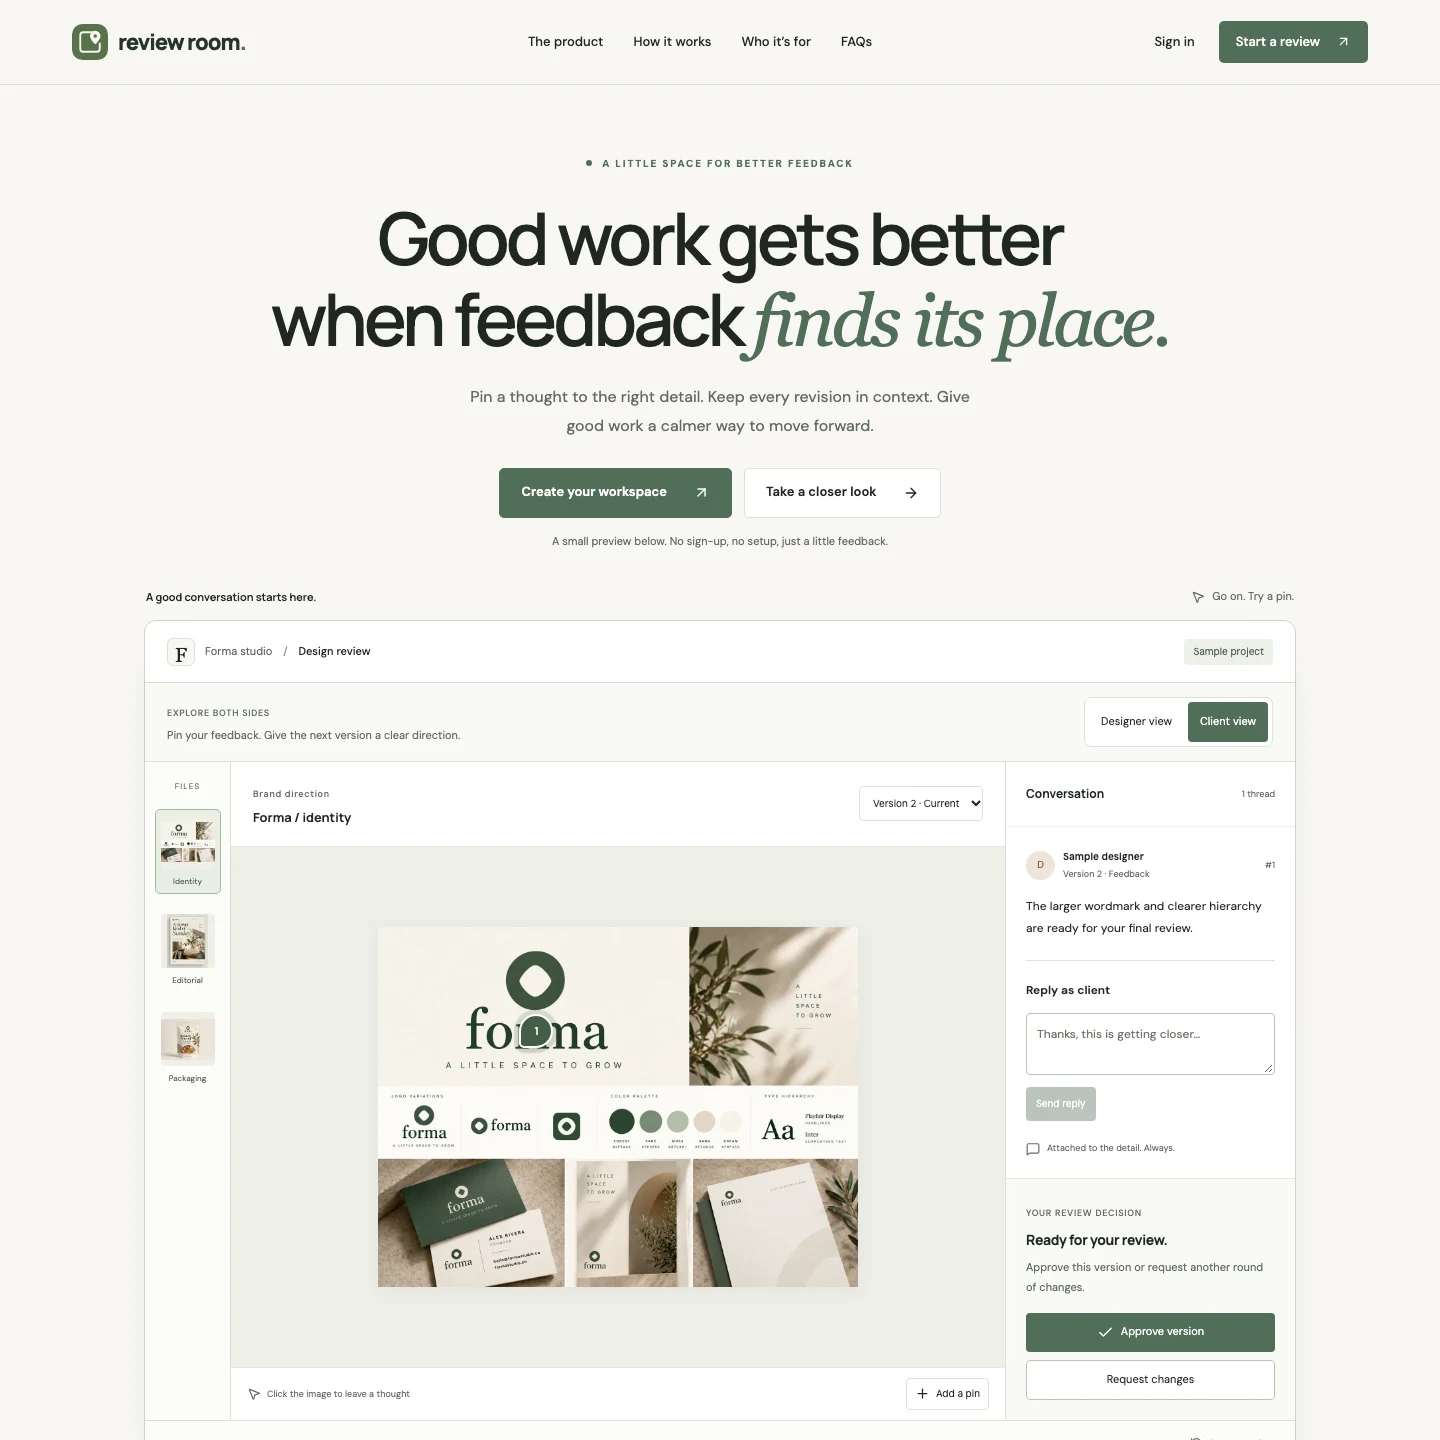
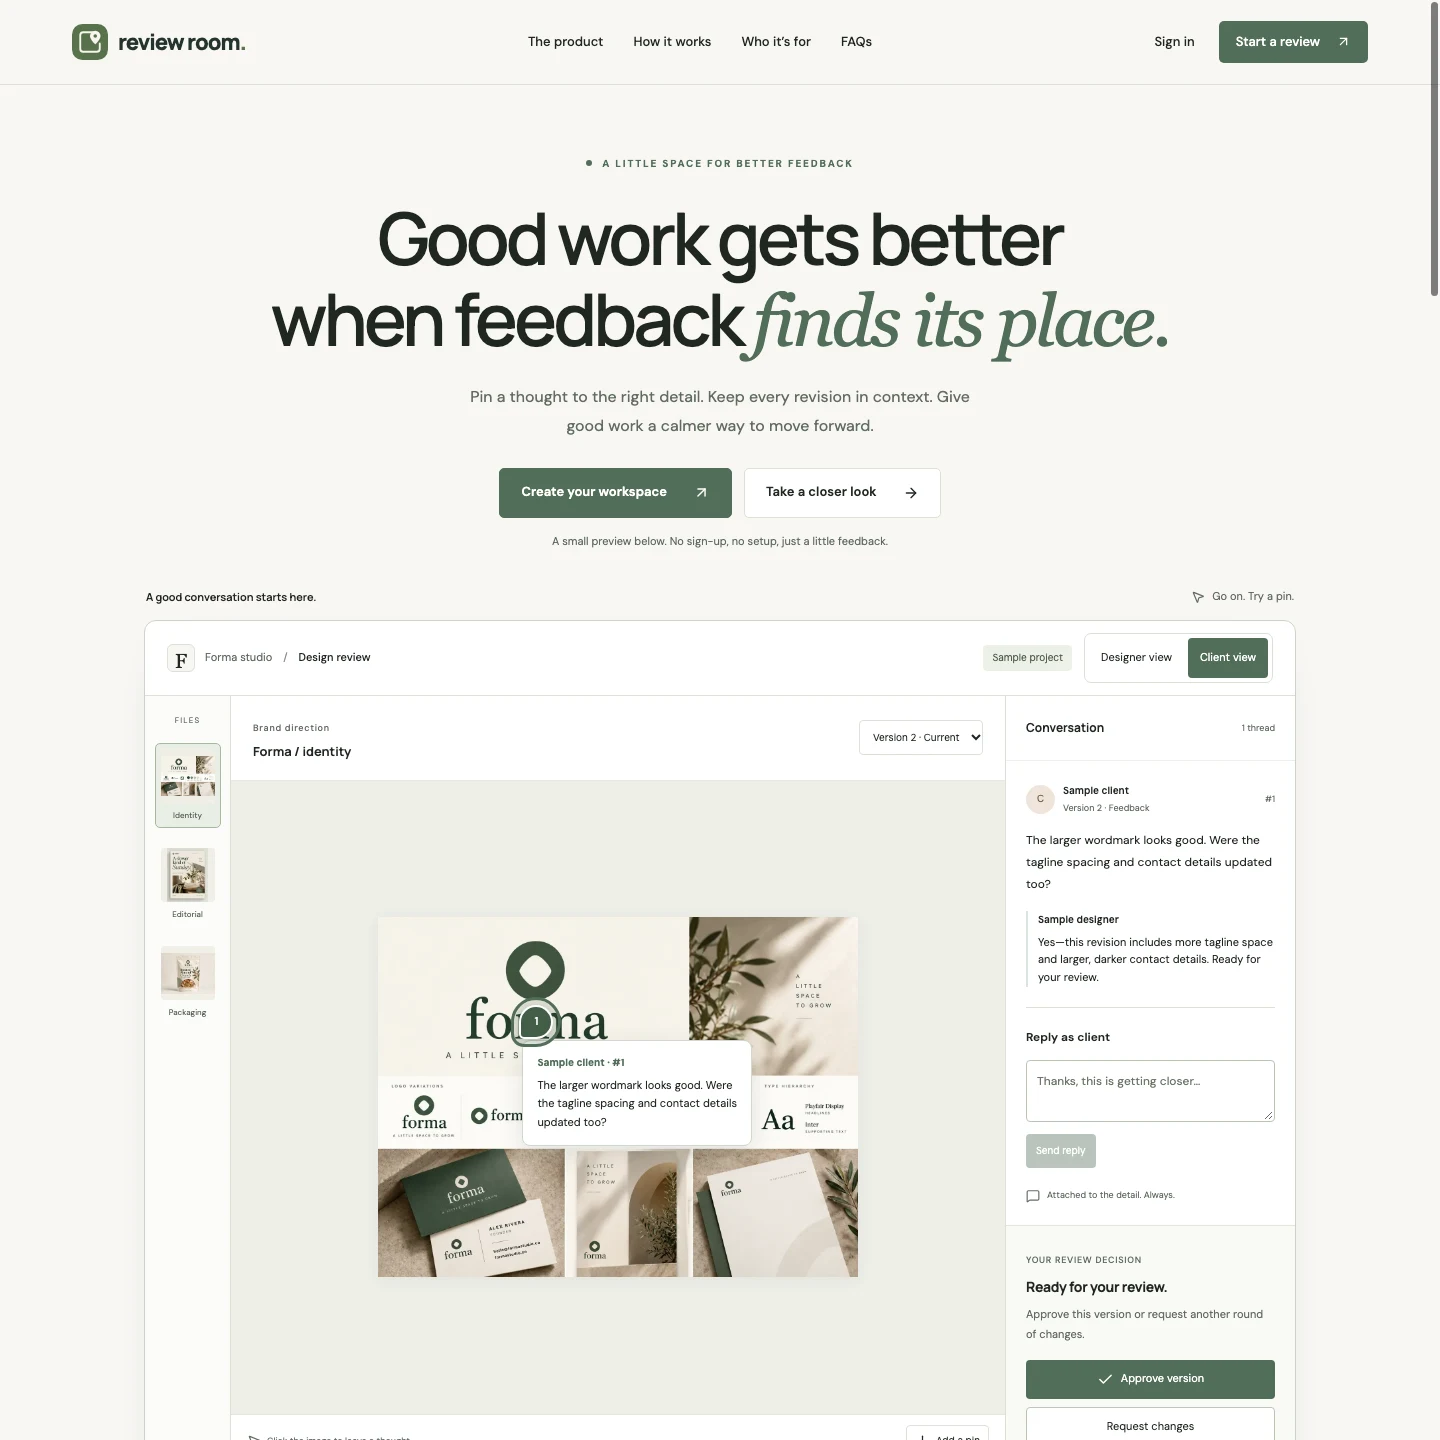
feat: refine preview toolbar and add comment pin tooltips

diff --git a/src/features/marketing/review-showcase.tsx b/src/features/marketing/review-showcase.tsx
@@ -31,6 +31,7 @@ export function ReviewShowcase({ seed }: { seed: DemoState }) {
   );
   const [body, setBody] = useState("");
   const [replyBody, setReplyBody] = useState("");
+  const [tooltipId, setTooltipId] = useState<string | null>(null);
   const [announcement, setAnnouncement] = useState("");
   const input = useRef<HTMLTextAreaElement>(null);
   const conversation = useRef<HTMLDivElement>(null);
@@ -110,32 +111,24 @@ export function ReviewShowcase({ seed }: { seed: DemoState }) {
             <strong>Design review</strong>
           </span>
         </span>
-        <span className={styles.sampleLabel}>Sample project</span>
-      </div>
-      <div className={styles.previewRoleBar}>
-        <div>
-          <span className={styles.fileType}>EXPLORE BOTH SIDES</span>
-          <p>
-            {designer
-              ? "Review the conversation. Reply and resolve the details."
-              : "Pin your feedback. Give the next version a clear direction."}
-          </p>
-        </div>
-        <div
-          className={styles.previewViewToggle}
-          role="group"
-          aria-label="Sample project view"
-        >
-          {(["DESIGNER", "CLIENT"] as const).map((view) => (
-            <button
-              key={view}
-              type="button"
-              aria-pressed={state.view === view}
-              onClick={() => switchView(view)}
-            >
-              {view === "DESIGNER" ? "Designer view" : "Client view"}
-            </button>
-          ))}
+        <div className={styles.previewToolbarActions}>
+          <span className={styles.sampleLabel}>Sample project</span>
+          <div
+            className={styles.previewViewToggle}
+            role="group"
+            aria-label="Sample project view"
+          >
+            {(["DESIGNER", "CLIENT"] as const).map((view) => (
+              <button
+                key={view}
+                type="button"
+                aria-pressed={state.view === view}
+                onClick={() => switchView(view)}
+              >
+                {view === "DESIGNER" ? "Designer view" : "Client view"}
+              </button>
+            ))}
+          </div>
         </div>
       </div>
       <div className={styles.showcaseBody}>
@@ -217,24 +210,72 @@ export function ReviewShowcase({ seed }: { seed: DemoState }) {
                 onClick={addPin}
               />
               {roots.map((root) => (
-                <button
+                <span
                   key={root.id}
-                  className={`${styles.pin} ${root.id === state.selectedId ? styles.selectedPin : ""}`}
+                  className={styles.pinAnchor}
                   style={{
                     left: `${root.xRatio! * 100}%`,
                     top: `${root.yRatio! * 100}%`,
+                    zIndex: tooltipId === root.id ? 4 : 2,
                   }}
-                  aria-label={`Open comment ${root.threadNumber}: ${root.body}`}
-                  aria-pressed={root.id === state.selectedId}
-                  aria-controls="preview-conversation"
-                  onClick={() => {
-                    dispatch({ type: "select", id: root.id });
-                    setReplyBody("");
-                    setAnnouncement(`Comment ${root.threadNumber} selected.`);
+                  onPointerEnter={(event) => {
+                    if (event.pointerType !== "touch") setTooltipId(root.id);
+                  }}
+                  onPointerLeave={(event) => {
+                    if (!event.currentTarget.contains(document.activeElement))
+                      setTooltipId(null);
+                  }}
+                  onFocus={() => setTooltipId(root.id)}
+                  onBlur={() => setTooltipId(null)}
+                  onKeyDown={(event) => {
+                    if (event.key === "Escape") setTooltipId(null);
                   }}
                 >
-                  {root.threadNumber}
-                </button>
+                  <button
+                    className={`${styles.pin} ${root.id === state.selectedId ? styles.selectedPin : ""}`}
+                    aria-label={`Open comment ${root.threadNumber}: ${root.body}`}
+                    aria-pressed={root.id === state.selectedId}
+                    aria-controls="preview-conversation"
+                    aria-describedby={
+                      tooltipId === root.id
+                        ? `preview-tooltip-${root.id}`
+                        : undefined
+                    }
+                    onClick={() => {
+                      dispatch({ type: "select", id: root.id });
+                      setReplyBody("");
+                      setAnnouncement(`Comment ${root.threadNumber} selected.`);
+                    }}
+                  >
+                    {root.threadNumber}
+                  </button>
+                  {tooltipId === root.id && (
+                    <span
+                      id={`preview-tooltip-${root.id}`}
+                      role="tooltip"
+                      className={styles.pinTooltip}
+                      style={{
+                        left:
+                          root.xRatio! < 0.35
+                            ? "-14px"
+                            : root.xRatio! > 0.65
+                              ? "auto"
+                              : "50%",
+                        right: root.xRatio! > 0.65 ? "-14px" : "auto",
+                        transform:
+                          root.xRatio! >= 0.35 && root.xRatio! <= 0.65
+                            ? "translateX(-50%)"
+                            : undefined,
+                      }}
+                    >
+                      <strong>
+                        Sample {root.author.toLowerCase()} · #
+                        {root.threadNumber}
+                      </strong>
+                      <span>{root.body}</span>
+                    </span>
+                  )}
+                </span>
               ))}
               {state.draft && (
                 <span

diff --git a/src/features/marketing/marketing.module.css b/src/features/marketing/marketing.module.css
@@ -1766,19 +1766,11 @@
   }
 }
 
-.previewRoleBar {
+.previewToolbarActions {
   display: flex;
   align-items: center;
-  justify-content: space-between;
-  gap: 16px;
-  padding: 14px 22px;
-  background: #f9faf6;
-  border-bottom: 1px solid var(--border);
-}
-.previewRoleBar p {
-  font-size: 11px;
-  color: var(--quiet);
-  margin-top: 4px;
+  gap: 12px;
+  flex-shrink: 0;
 }
 .previewViewToggle {
   display: flex;
@@ -1819,15 +1811,69 @@
   color: var(--text);
   background: white;
 }
-@media (max-width: 600px) {
-  .previewRoleBar {
-    align-items: stretch;
-    flex-direction: column;
-    padding: 14px;
-    gap: 12px;
+
+.pinAnchor {
+  position: absolute;
+  width: 0;
+  height: 0;
+}
+.pinAnchor > .pin {
+  left: 0;
+  top: 0;
+}
+.pinTooltip {
+  position: absolute;
+  top: 18px;
+  width: min(230px, 68vw);
+  padding: 13px 14px;
+  border: 1px solid #d0d8ca;
+  border-radius: 8px;
+  background: white;
+  color: var(--text);
+  box-shadow: 0 8px 24px #263b3220;
+  font-size: 11px;
+  line-height: 1.7;
+  overflow-wrap: anywhere;
+}
+.pinTooltip::before {
+  content: "";
+  position: absolute;
+  inset: -12px 0 auto;
+  height: 12px;
+}
+.pinTooltip strong {
+  display: block;
+  font-size: 10px;
+  margin-bottom: 5px;
+  color: var(--green);
+}
+.pinTooltip > span {
+  display: block;
+}
+@media (max-width: 900px) {
+  .previewToolbarActions {
+    gap: 7px;
   }
   .previewViewToggle button {
+    padding-inline: 8px;
+  }
+}
+@media (max-width: 600px) {
+  .showcaseToolbar {
+    flex-wrap: wrap;
+    gap: 8px;
+  }
+  .previewToolbarActions {
     flex: 1;
+    justify-content: flex-end;
+  }
+  .previewViewToggle {
+    gap: 2px;
+    padding: 3px;
+  }
+  .previewViewToggle button {
     min-height: 44px;
+    font-size: 10px;
+    padding-inline: 7px;
   }
 }

diff --git a/src/features/demo/state.ts b/src/features/demo/state.ts
@@ -73,8 +73,8 @@ export function seededDemo(): DemoState {
         threadNumber: 1,
         xRatio: 0.33,
         yRatio: 0.29,
-        body: "The larger wordmark and clearer hierarchy are ready for your final review.",
-        author: "DESIGNER",
+        body: "The larger wordmark looks good. Were the tagline spacing and contact details updated too?",
+        author: "CLIENT",
         resolved: false,
         createdAt,
       },
@@ -193,6 +193,19 @@ export function seededDemo(): DemoState {
         body: "Make the product benefits and net weight darker, and align the information along the bottom.",
         author: "CLIENT",
         resolved: true,
+        createdAt,
+      },
+      {
+        id: "90000000-0000-4000-8000-000000000013",
+        assetId: "identity",
+        version: 2,
+        parentId: "90000000-0000-4000-8000-000000000003",
+        threadNumber: null,
+        xRatio: null,
+        yRatio: null,
+        body: "Yes—this revision includes more tagline space and larger, darker contact details. Ready for your review.",
+        author: "DESIGNER",
+        resolved: false,
         createdAt,
       },
     ],

diff --git a/docs/PROGRESS.md b/docs/PROGRESS.md
@@ -309,3 +309,9 @@ Mark a step complete only after its roadmap acceptance checks pass, recording us
 
 - Added an accessible Designer view / Client view switch within the homepage sample project, with role-specific guidance. Both views can pin feedback and reply on the current version; the designer can resolve/reopen threads, while the client can approve or request changes. Designer view shows the client decision and offers a handoff button. All state remains inside the existing browser-only reducer; no API, customer data or authentication behavior changed. Historical versions remain read only, and reset restores the initial client view and sample state.
 - Added focused coverage for role boundaries, reply attribution, resolve/reopen, role-switch draft cancellation, historical restrictions and reset. Lint, production build/typecheck and 13 focused tests passed. Local Chrome exercised designer replies, resolve/reopen, client change requests/approval, a 320px role switch without horizontal overflow and reset, then regenerated the five portfolio screenshots using intercepted demo fixtures. No backend writes, staging, commit, push or deployment.
+
+### Homepage preview toolbar and pin polish
+
+- Folded the view switch into the existing Sample project toolbar and removed the separate role-guidance row. Narrow layouts wrap the toolbar while keeping the sample label and view controls together.
+- Added hover and keyboard-focus comment tooltips with Escape dismissal; touch users can still tap pins to open the conversation. The initially selected current-version identity thread now contains a client question and a designer reply. Historical feedback counts remain unchanged.
+- Lint, production build/typecheck and 13 focused tests passed. Local Chrome verified the initial two-author conversation, mouse hover, focus/Escape dismissal, designer reply/resolve, client decisions, reset and 320px role switching; five screenshots were refreshed with intercepted fixtures and no backend writes. No staging, commit, push or deployment.
